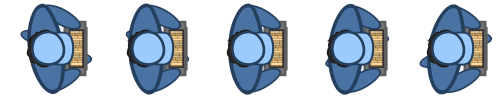
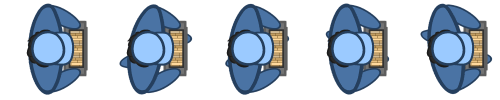
implemented player movement animation w/ atlas

diff --git a/Source/Scenes/Play.js b/Source/Scenes/Play.js
@@ -17,7 +17,7 @@ class Play extends Phaser.Scene
         this.load.image('rocket', './assets/rocket.png');
 
         // load car atlas
-        this.load.atlas("car_atlas", "./assets/car-atlas.png", "./assets/carmap.json");
+        this.load.atlas("player_atlas", "./assets/gamePlayerAtlas.png", "./assets/playermap.json");
 
         // load enemies
         this.load.image("zombie", "./assets/zombie.png");
@@ -117,7 +117,7 @@ class Play extends Phaser.Scene
             this, // scene
             game.config.width/2, // x-coord
             game.config.height/1.45, // y-coord
-            "player", // texture
+            "player_atlas", // texture
             0, // frame
             false, // left collision checker
             false, // right collision checker
@@ -126,22 +126,29 @@ class Play extends Phaser.Scene
         ).setScale(0.5, 0.5).setOrigin(.5,.5);
 
         // add player animations
-        /*
         this.anims.create({
-            key: 'car_anim',
-            frames: this.anims.generateFrameNames('car_atlas', {
-                prefix: 'sprite',
+            key: 'player_walk',
+            frames: this.anims.generateFrameNames('player_atlas', {
+                prefix: 'walk',
                 start: 1,
-                end: 6,
+                end: 4,
                 suffix: '',
             }),
             frameRate: 12,
             repeat: -1,
         });
 
-        // play animation
-        this.player.play("car_anim");
-        */
+        this.anims.create({
+            key: 'player_idle',
+            frames: this.anims.generateFrameNames('player_atlas', {
+                prefix: 'idle',
+                start: 1,
+                end: 1,
+                suffix: '',
+            }),
+            frameRate: 12,
+            repeat: -1,
+        });
 
         // array of obstacles and zombies
         this.obstacles = [];
@@ -180,7 +187,6 @@ class Play extends Phaser.Scene
         keyD = this.input.keyboard.addKey(Phaser.Input.Keyboard.KeyCodes.D);
         keyLEFT = this.input.keyboard.addKey(Phaser.Input.Keyboard.KeyCodes.LEFT);
         keyRIGHT = this.input.keyboard.addKey(Phaser.Input.Keyboard.KeyCodes.RIGHT);
-
 
         //----------------------------------------------------------------------
         // add the animations
@@ -343,6 +349,23 @@ class Play extends Phaser.Scene
     //--------------------------------------------------------------------------
     update()
     {   
+        // play animations when player is moving
+        if (keyW.isDown) {
+            this.player.play("player_walk", true);
+        }
+        else if (keyS.isDown) {
+            this.player.play("player_walk", true);
+        }
+        else if (keyA.isDown) {
+            this.player.play("player_walk", true);
+        }
+        else if (keyD.isDown) {
+            this.player.play("player_walk", true);
+        }
+        else {
+            this.player.play("player_idle", true);
+        }
+
         // checks where in the grid the player is located at
         this.tileX = Math.floor((this.player.x)/50); // 27
         this.tileY = Math.floor((this.player.y)/50); // 24
